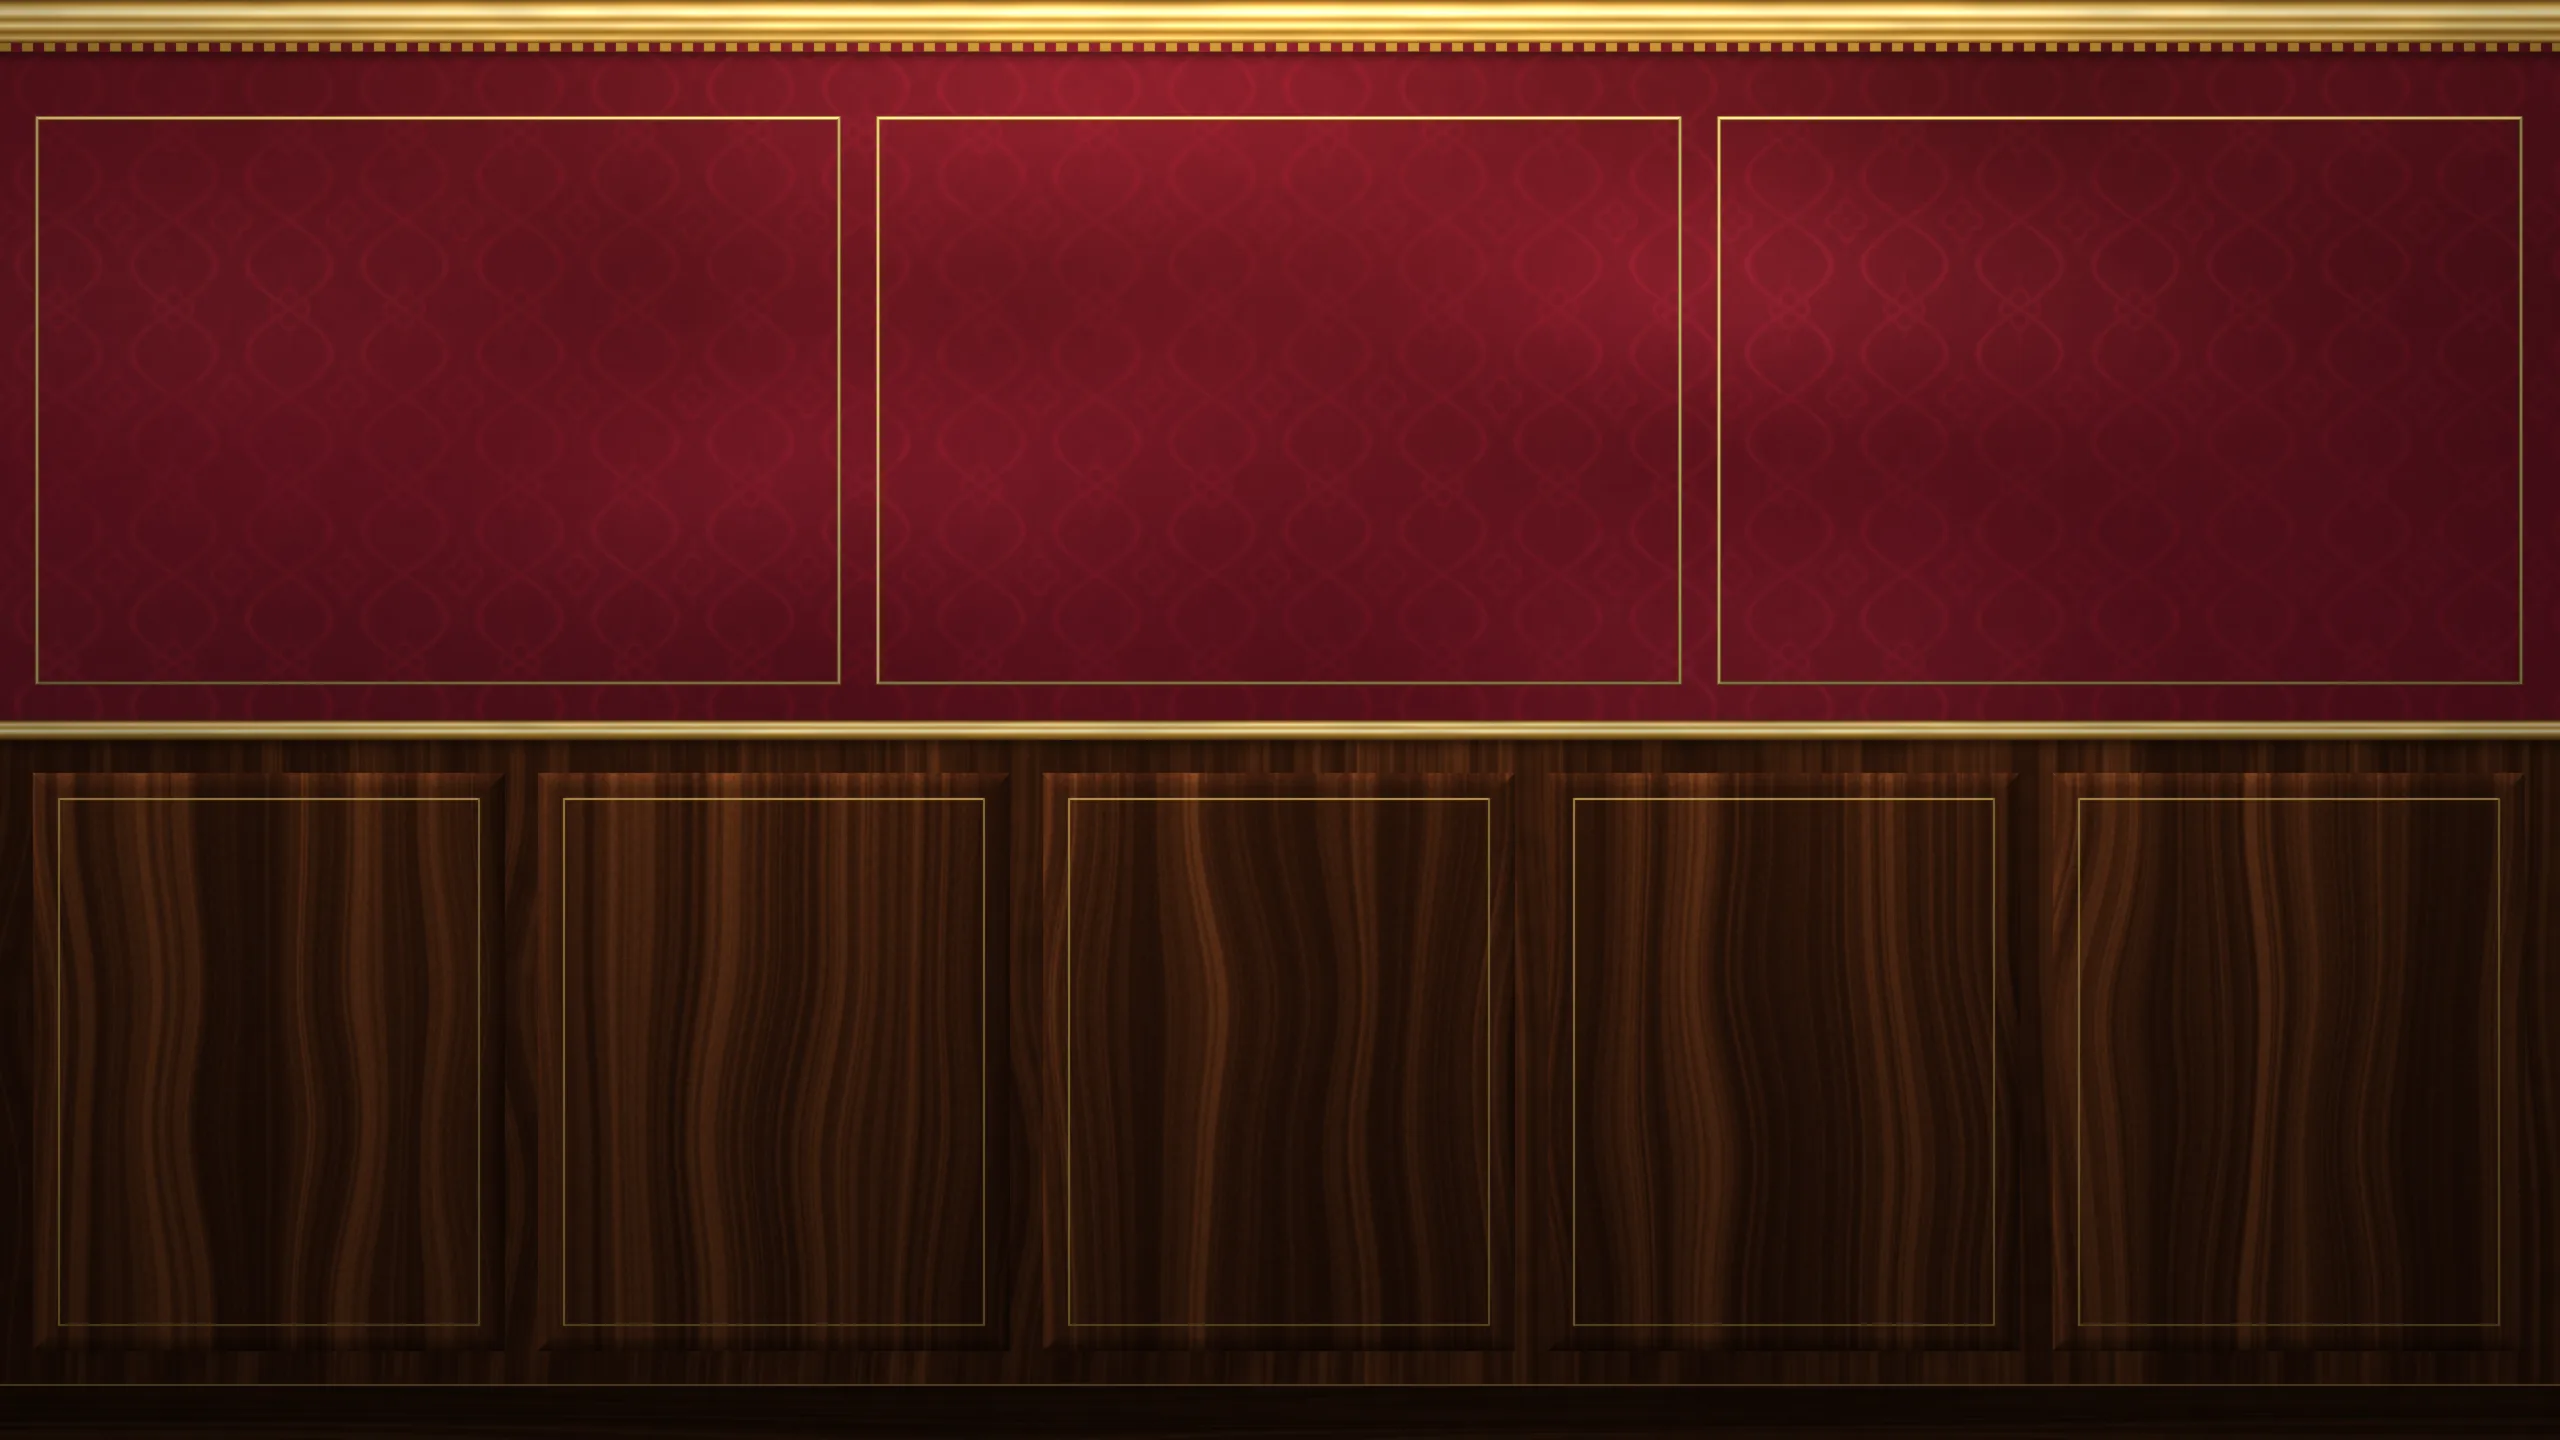
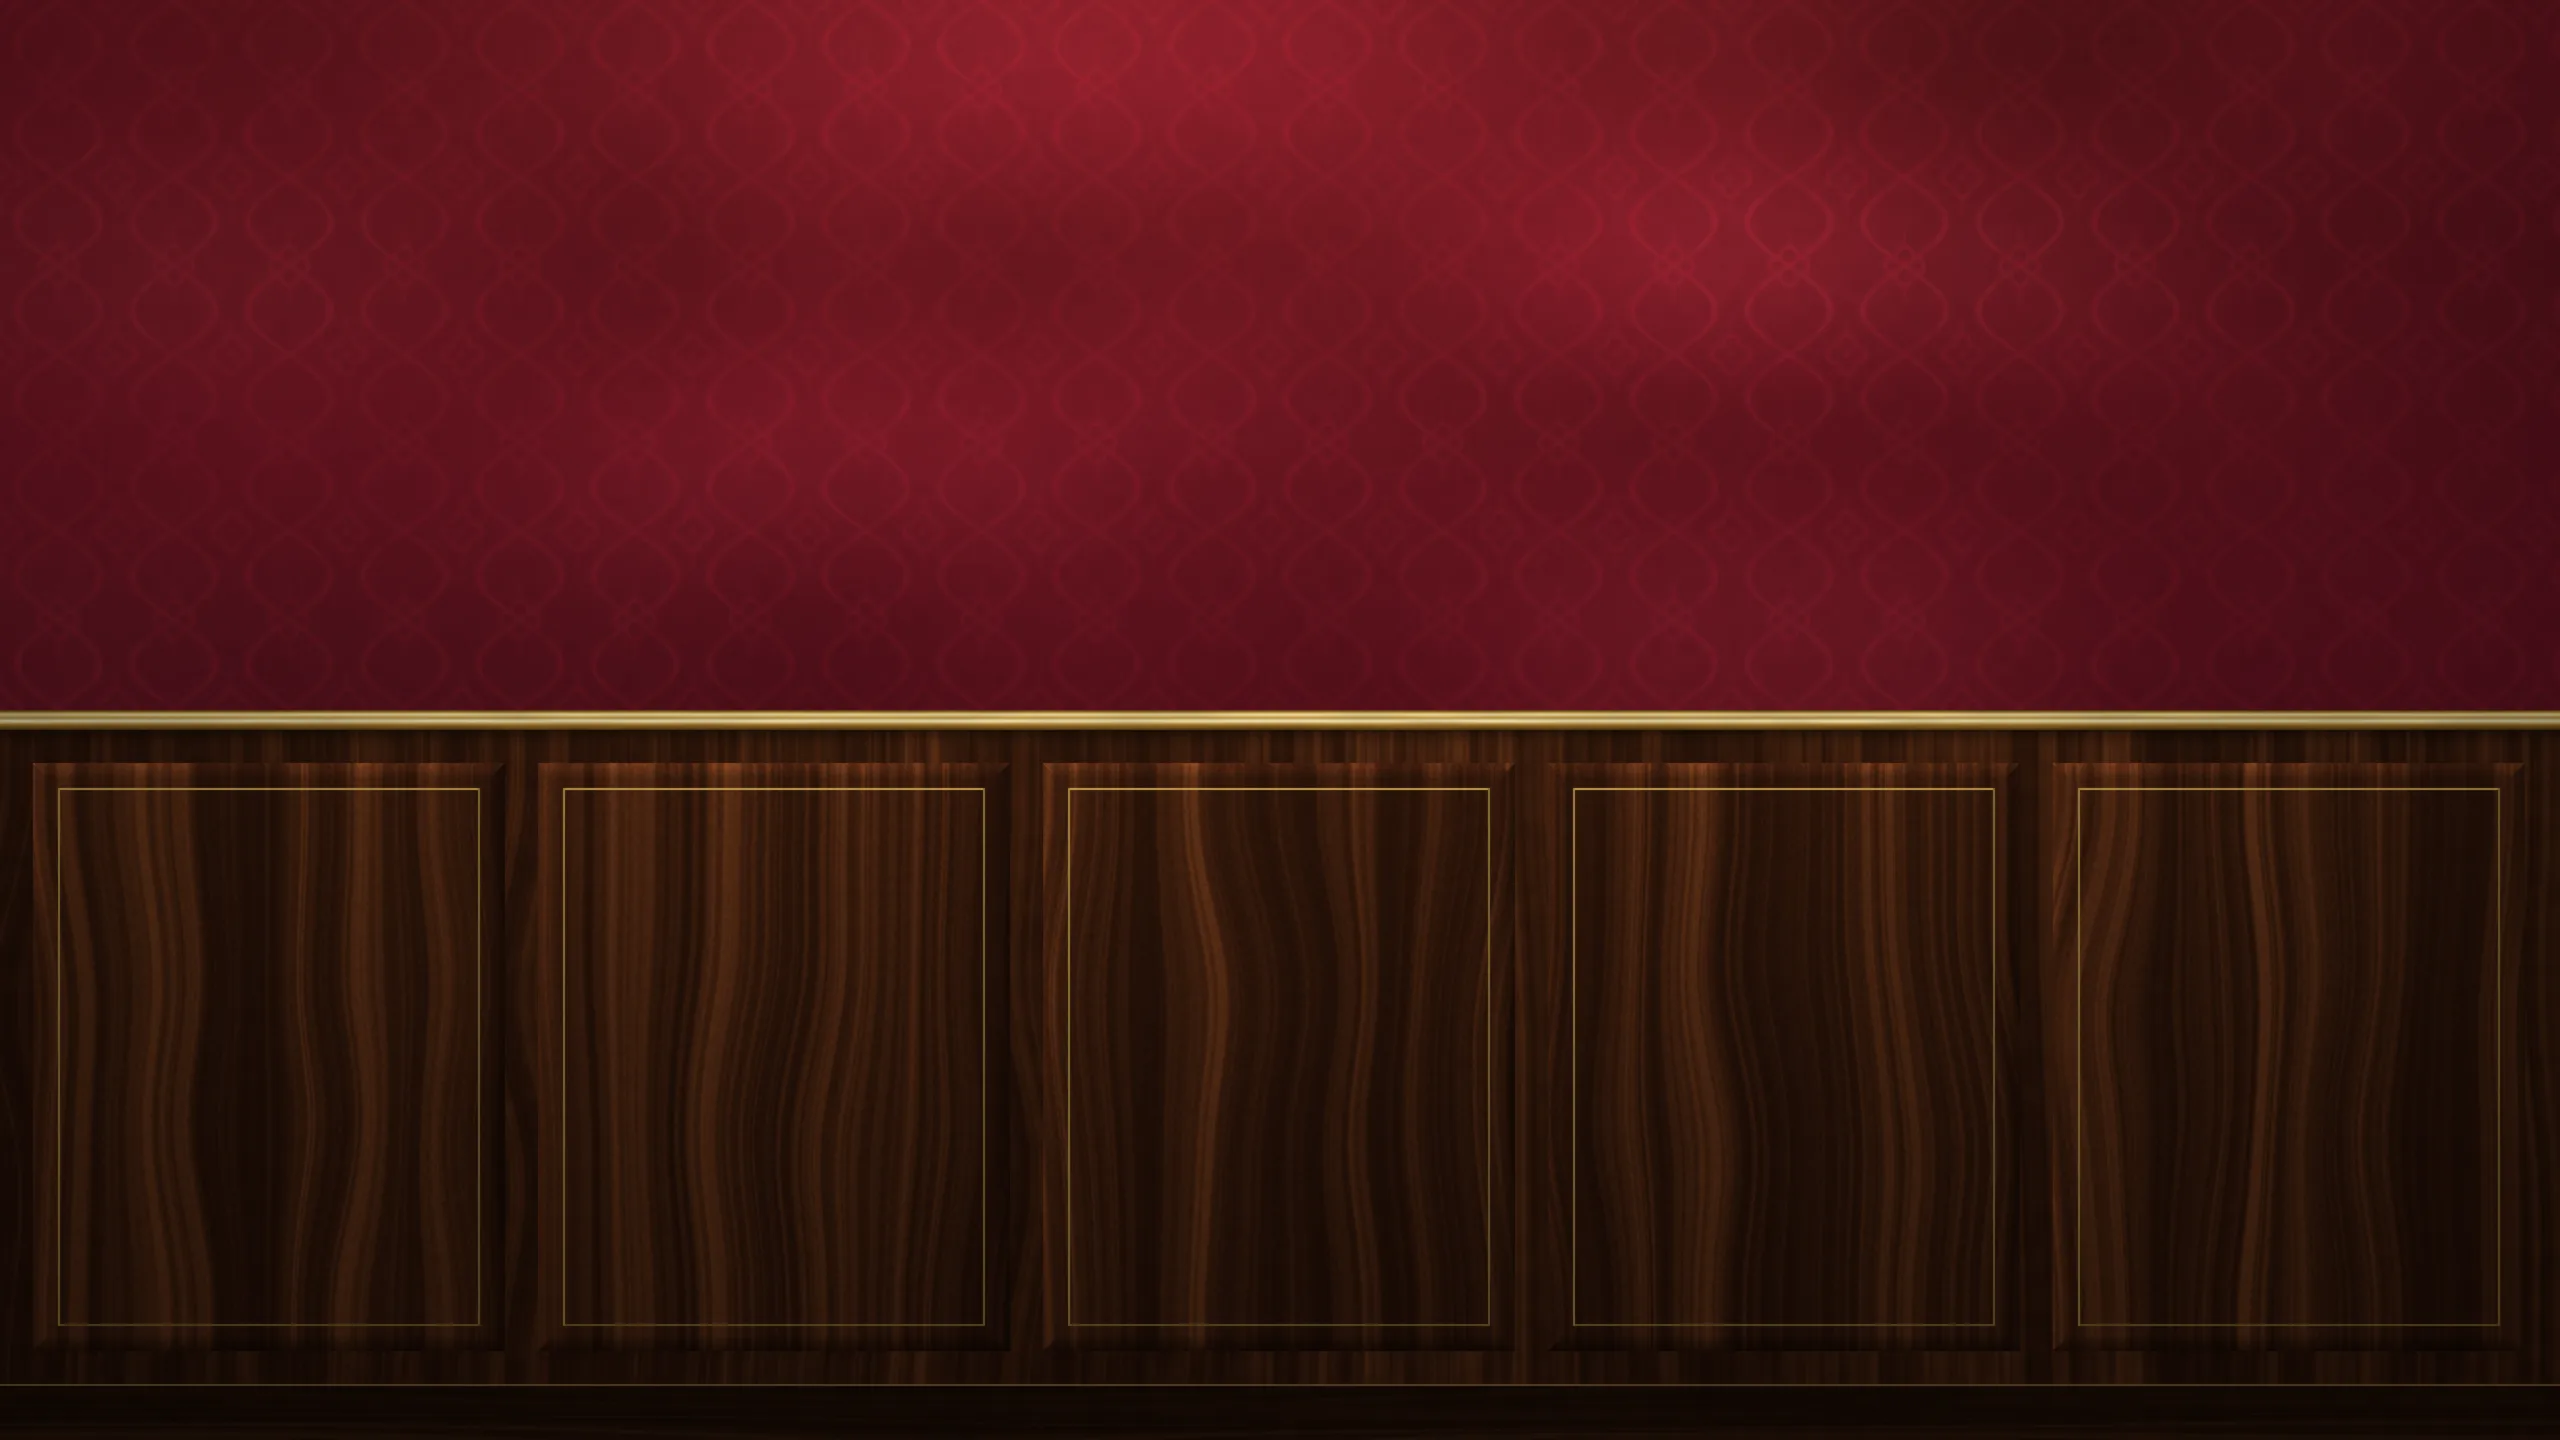
0.88.1: corrimano sempre dietro a Sofia (cornicione e cornici in CSS), microfono Android che ripeteva le parole

diff --git a/app.js b/app.js
@@ -16,7 +16,7 @@ import * as VOCE from "./voce.js";
 import * as GESTI from "./gesti.js";
 import * as BOCCA from "./bocca.js";
 
-export const VERSIONE = "0.88.0";
+export const VERSIONE = "0.88.1";
 
 // Icone (SVG semplici, tratto 2px). Si usano con ICONA("nome").
 const ICONE_SVG = {
@@ -228,6 +228,26 @@ setTimeout(async () => {
     if (t && t.modello) IA.salvaConf({ modello: t.modello });
   } catch (e) { console.warn("scaldamotore", e); }
 }, 2500);
+// 0.88 - IL MICROFONO CHE RIPETEVA LE PAROLE: sui telefoni Android il riconoscimento manda ogni pezzo "finale"
+// con dentro anche tutto quello di prima ("cosa", "cosa c'è", "cosa c'è da fare"...). Prima si attaccavano tutti
+// e usciva "cosa cosa c'è cosa c'è da fare...". Adesso si rifà la frase da capo a ogni risultato e un pezzo che
+// comincia come quello prima lo SOSTITUISCE invece di aggiungersi (e uno piu' corto, gia' detto, si salta).
+function uniscVoce(pezzi) {
+  const out = [], n = (x) => String(x).toLowerCase().replace(/[^\p{L}\p{N}]+/gu, " ").trim();
+  for (const p0 of pezzi) {
+    const p = String(p0 || "").trim(); if (!p) continue;
+    const u = out.length ? out[out.length - 1] : "";
+    if (u && n(p).startsWith(n(u))) out[out.length - 1] = p;
+    else if (u && n(u).startsWith(n(p))) continue;
+    else out.push(p);
+  }
+  return out.join(" ").replace(/\s+/g, " ").trim();
+}
+function testoDaRisultati(e) {
+  const finali = [], tutti = [];
+  for (let i = 0; i < e.results.length; i++) { const x = e.results[i][0].transcript; tutti.push(x); if (e.results[i].isFinal) finali.push(x); }
+  return { finale: uniscVoce(finali), visto: uniscVoce(tutti) };
+}
 function micCasaVai() {
   const R = window.SpeechRecognition || window.webkitSpeechRecognition;
   if (!R) { toast("Qui il microfono non si apre: usa quello della tastiera"); return; }
@@ -242,12 +262,9 @@ function micCasaVai() {
   statoCons("ascolto"); sottoCons("ti ascolto…", true); scaldaRisposta();
   riarma(9000);                                  // se non dice niente, dopo 9 s si chiude
   r.onresult = (e) => {
-    let interim = "";
-    for (let i = e.resultIndex; i < e.results.length; i++) {
-      const x = e.results[i][0].transcript;
-      if (e.results[i].isFinal) finale += x + " "; else interim += x;
-    }
-    sottoCons((finale + interim).trim() || "ti ascolto…", true);
+    const t = testoDaRisultati(e);
+    finale = t.finale;
+    sottoCons(t.visto || "ti ascolto…", true);
     riarma(3000);
   };
   r.onerror = () => {
@@ -731,6 +748,8 @@ function applicaTema() {
   if (col !== "blu") document.documentElement.setAttribute("data-colore", col); else document.documentElement.removeAttribute("data-colore");
   const lusso = sfondoLusso();
   if (document.body) document.body.classList.toggle("lusso", lusso);
+  const parete = document.querySelector(".laguna");
+  if (parete && !parete.querySelector(".cornice")) { const c = document.createElement("i"); c.className = "cornice"; parete.appendChild(c); }
   const barra = document.querySelector('meta[name="theme-color"]');
   if (barra) barra.setAttribute("content", lusso ? "#24100C" : S.tema === "dark" ? "#000000" : "#ffffff");
   if (S.pronto && eraLusso !== lusso) { eraLusso = lusso; try { localStorage.setItem("ricci_era_lusso", lusso ? "1" : "0"); } catch (e) {} }
@@ -2450,9 +2469,8 @@ function microfono() {
   const r = new R(); r.lang = "it-IT"; r.interimResults = true; r.continuous = false; r.maxAlternatives = 1;
   let finale = "";
   r.onresult = (e) => {
-    let interim = "";
-    for (let i = e.resultIndex; i < e.results.length; i++) { const t = e.results[i][0].transcript; if (e.results[i].isFinal) finale += t; else interim += t; }
-    if (ta) { ta.value = (finale + interim).trim(); ta.style.height = "auto"; ta.style.height = Math.min(120, ta.scrollHeight) + "px"; }
+    const t = testoDaRisultati(e); finale = t.finale;
+    if (ta) { ta.value = t.visto; ta.style.height = "auto"; ta.style.height = Math.min(120, ta.scrollHeight) + "px"; }
   };
   r.onerror = (e) => { ascolto = null; segnaMic(false); if (e.error === "not-allowed" || e.error === "service-not-allowed") toast("Il telefono non mi dà il microfono: dallo a questa app nelle impostazioni"); else if (e.error !== "aborted" && e.error !== "no-speech") toast("Non ti ho sentito, riprova"); };
   r.onend = () => {
@@ -4509,7 +4527,7 @@ function parlaDettatura(f) {
     const rec = new SR(); riconoscimento = rec;
     rec.lang = "it-IT"; rec.interimResults = false; rec.maxAlternatives = 1; rec.continuous = false;
     if (b) { b.textContent = "🎙 Ti ascolto… parla"; b.classList.add("rec"); }
-    rec.onresult = (e) => { const t = Array.from(e.results).map(r => r[0].transcript).join(" "); if (t) aggiungiTestoDettatura(f, t); };
+    rec.onresult = (e) => { const t = uniscVoce(Array.from(e.results).map(r => r[0].transcript)); if (t) aggiungiTestoDettatura(f, t); };
     rec.onerror = () => toast("Non riesco a sentirti da qui: tocca la casella e usa il microfono 🎤 della tastiera.");
     rec.onend = () => { riconoscimento = null; const bb = $("[data-dett-parla]"); if (bb) { bb.textContent = "🎤 Parla"; bb.classList.remove("rec"); } };
     rec.start();

diff --git a/style.css b/style.css
@@ -1685,9 +1685,20 @@ body.nonna .sig-riga.letta .sig-testo b{font-size:20px}
 @font-face{font-family:"Playfair Display";font-style:normal;font-weight:600;font-display:swap;src:url(fonts/playfair-display-latin-600-normal.woff2) format("woff2")}
 @font-face{font-family:"Playfair Display";font-style:italic;font-weight:400;font-display:swap;src:url(fonts/playfair-display-latin-400-italic.woff2) format("woff2")}
 body.lusso{--f-lusso:"Playfair Display","Didot","Bodoni 72",Georgia,"Times New Roman",serif;--avorio:#F8EDD6;--avorio2:rgba(248,237,214,.8);--oro-chiaro:#E8CD8E;--filo-oro:rgba(201,160,84,.5);--ombra-parete:0 1px 3px rgba(0,0,0,.75),0 0 14px rgba(0,0,0,.35);background:#1b0b08}
-body.lusso .laguna{background:#3a0d14 url(sfondo-lusso.webp) center top/cover no-repeat;filter:none}
+body.lusso .laguna{background:#3a0d14 url(sfondo-lusso.webp) center center/cover no-repeat;filter:none}
 @media (min-aspect-ratio:1/1){body.lusso .laguna{background-image:url(sfondo-lusso-largo.webp)}}
-body.lusso .laguna::before{content:none;animation:none}
+/* il corrimano dell'immagine sta a meta' (center center): sullo schermo resta SEMPRE a meta' altezza, dietro al ritratto.
+   Il cornicione d'oro in cima e le cornici sul velluto li disegna il CSS, cosi' stanno al posto giusto su ogni schermo
+   (prima erano nell'immagine e su certi schermi tagliavano le scritte). */
+body.lusso .laguna::before{content:"";position:absolute;left:0;right:0;top:0;height:30px;opacity:1;animation:none;background:repeating-linear-gradient(90deg,#BD9142 0 8px,#5A3A0E 8px 9px,transparent 9px 16px) left 0 bottom 0/100% 8px no-repeat,linear-gradient(180deg,#3E2606 0%,#B48836 14%,#F6E2A2 30%,#A97B2C 44%,#E8CD88 60%,#7B5517 76%,#D4B266 88%,#4A2F08 100%) left 0 top 0/100% 22px no-repeat;box-shadow:0 10px 16px -8px rgba(0,0,0,.65);pointer-events:none}
+.laguna .cornice{display:none}
+body.lusso .laguna .cornice{display:block;position:absolute;left:5.5%;right:5.5%;top:calc(max(calc(env(safe-area-inset-top,0px) + 14px),min(9vw,40px)) + 32px);bottom:calc(50% + 4vh);border:3px solid transparent;border-image:linear-gradient(135deg,#F3DFA2,#9C7428 35%,#E8CF8A 55%,#7A5718 80%,#D8B56A) 1;box-shadow:0 0 0 1px rgba(0,0,0,.35),inset 0 0 0 1px rgba(0,0,0,.35),0 6px 14px -6px rgba(0,0,0,.5);pointer-events:none}
+@media (min-aspect-ratio:1/1){
+  body.lusso .laguna .cornice{left:35.5%;right:35.5%}
+  body.lusso .laguna .cornice::before,body.lusso .laguna .cornice::after{content:"";position:absolute;top:-3px;bottom:-3px;width:31.5vw;border:3px solid transparent;border-image:inherit;box-shadow:inherit}
+  body.lusso .laguna .cornice::before{right:calc(100% + 2vw)}
+  body.lusso .laguna .cornice::after{left:calc(100% + 2vw)}
+}
 body.lusso .laguna::after{background:linear-gradient(180deg,rgba(20,6,4,.28) 0%,rgba(20,6,4,0) 18%,rgba(20,6,4,0) 80%,rgba(10,4,2,.3) 100%)}
 :root[data-theme="dark"] body.lusso .laguna{filter:brightness(.62) saturate(.9)}
 /* la testata: legno scuro con le lettere d'oro */

diff --git a/sw.js b/sw.js
@@ -3,7 +3,7 @@
 //  Quando si pubblica una versione nuova bisogna cambiare il numero qui sotto:
 //  così i telefoni si accorgono dell'aggiornamento.
 // ============================================================================
-const VERSIONE = "0.88.0";
+const VERSIONE = "0.88.1";
 const CACHE = "ricci-pulizie-" + VERSIONE;
 const FILE_BASE = [
   "./", "./index.html", "./style.css", "./app.js", "./db.js", "./logica.js", "./regole.js",
